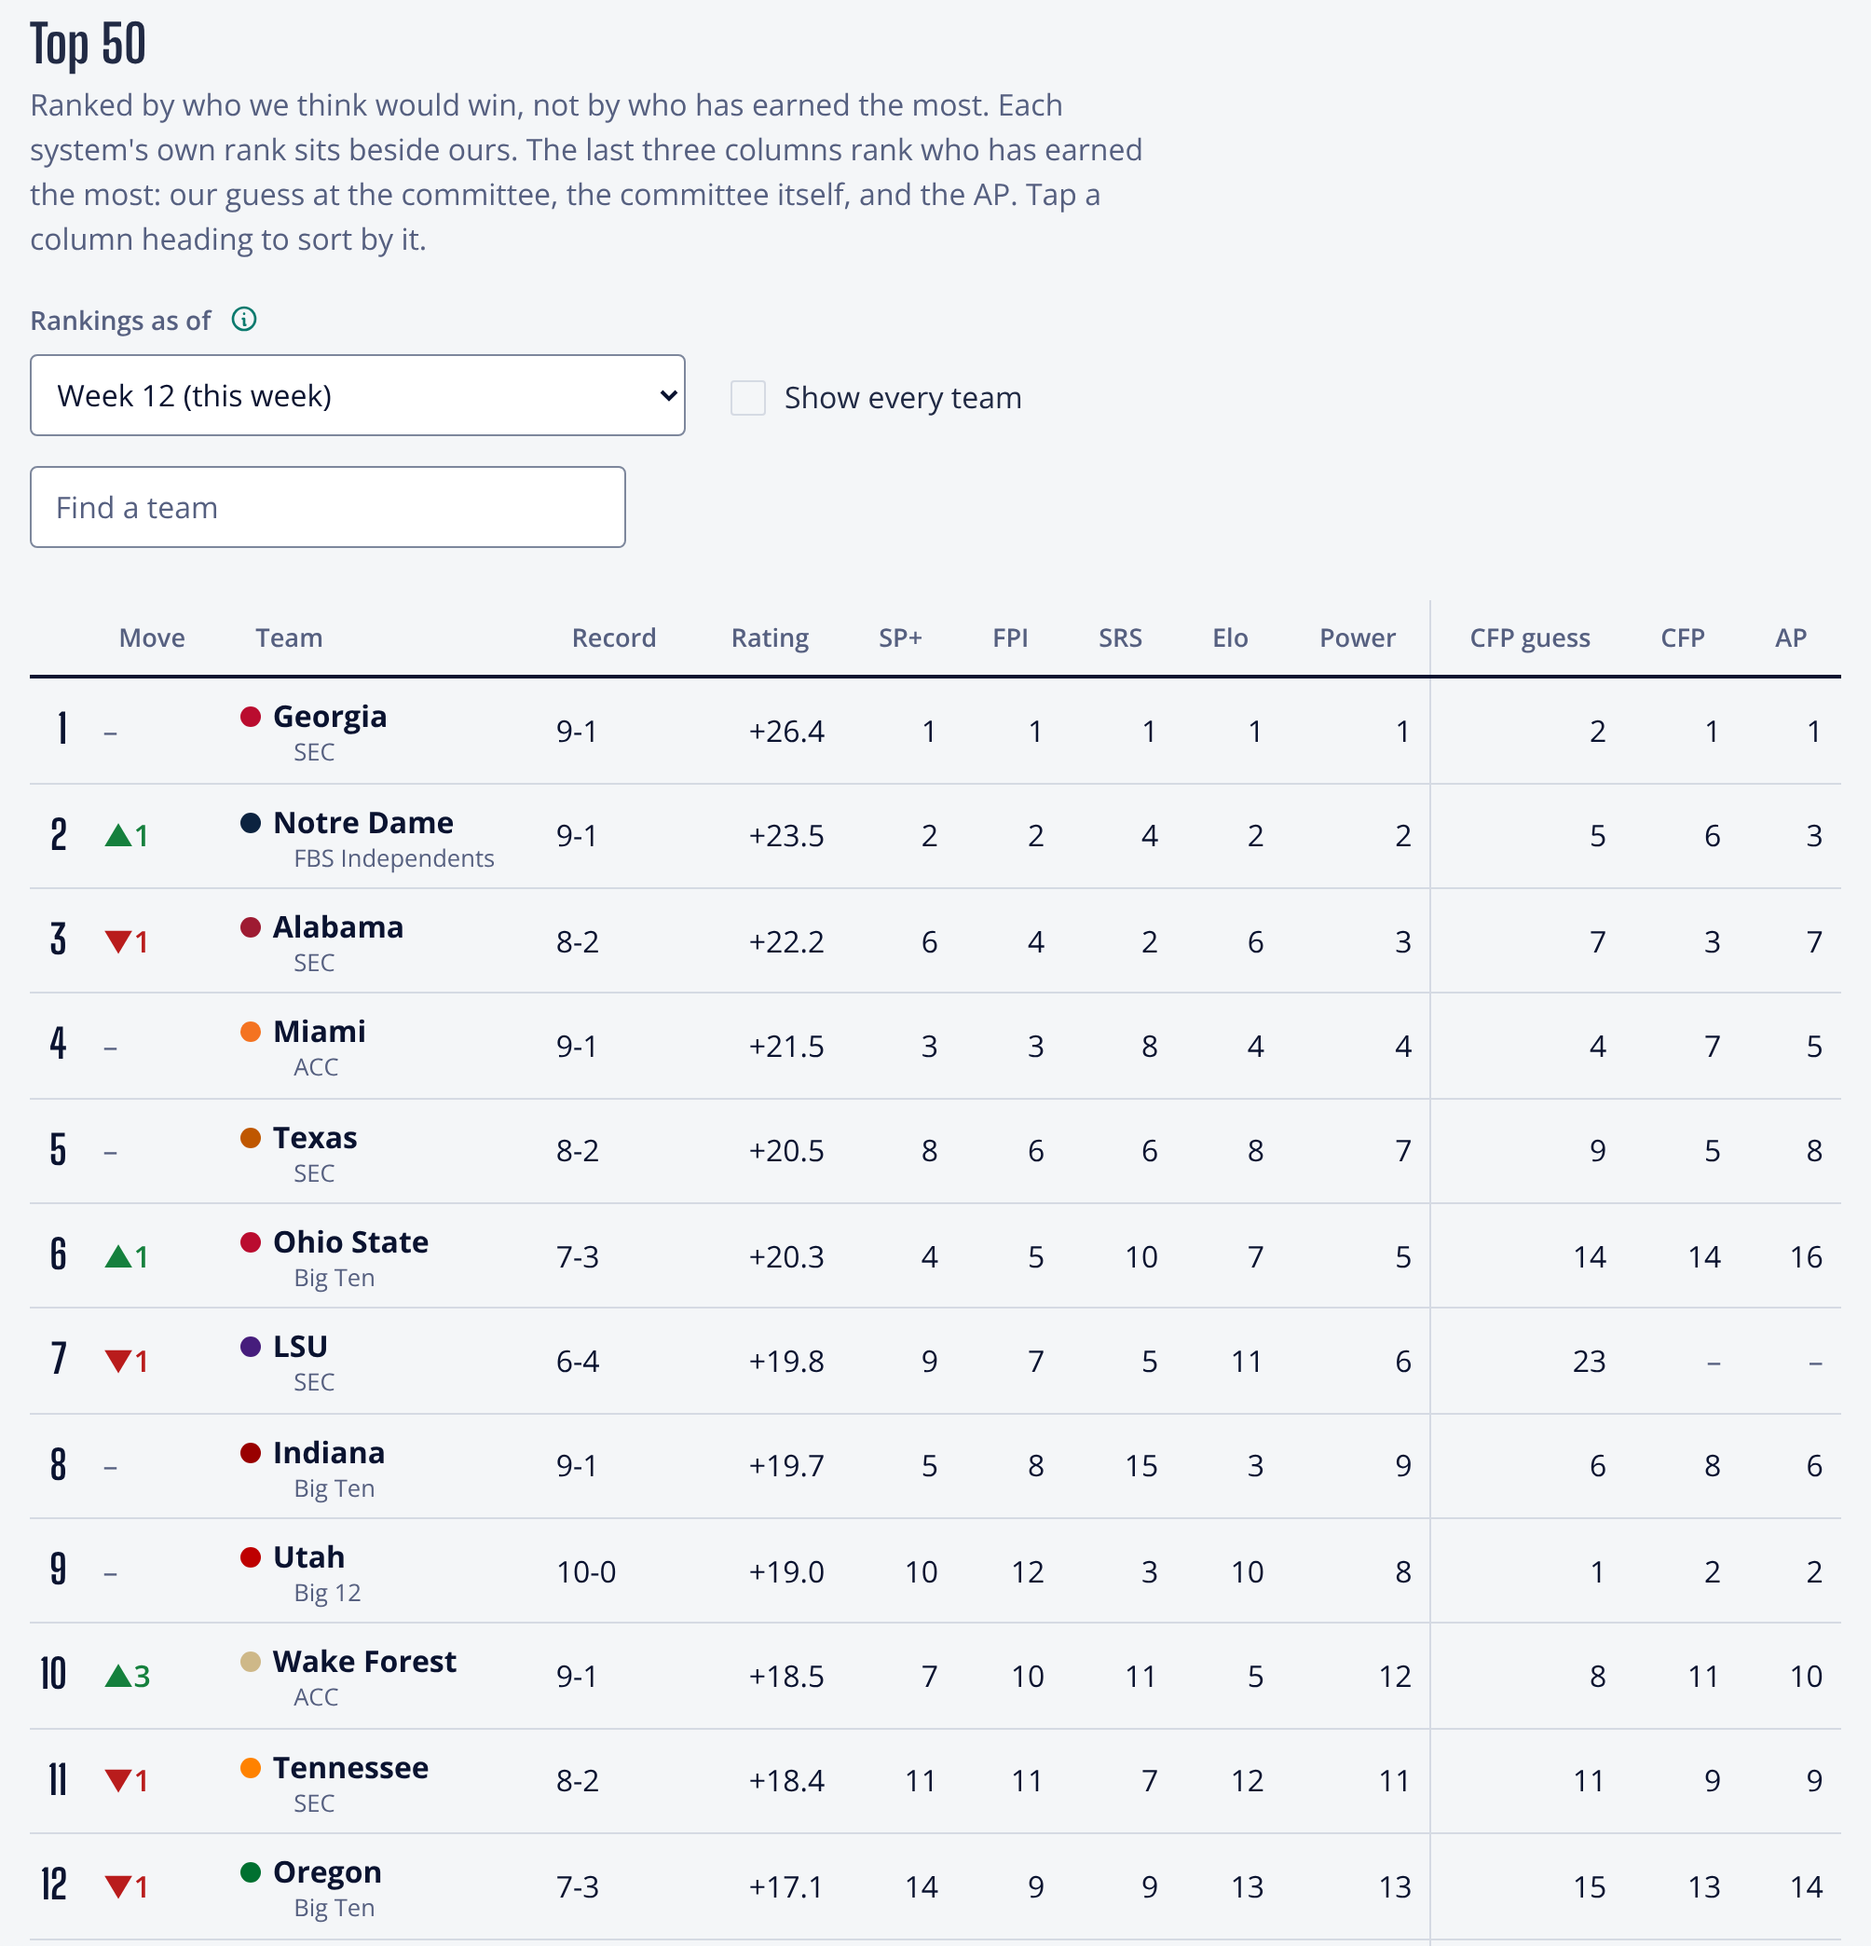
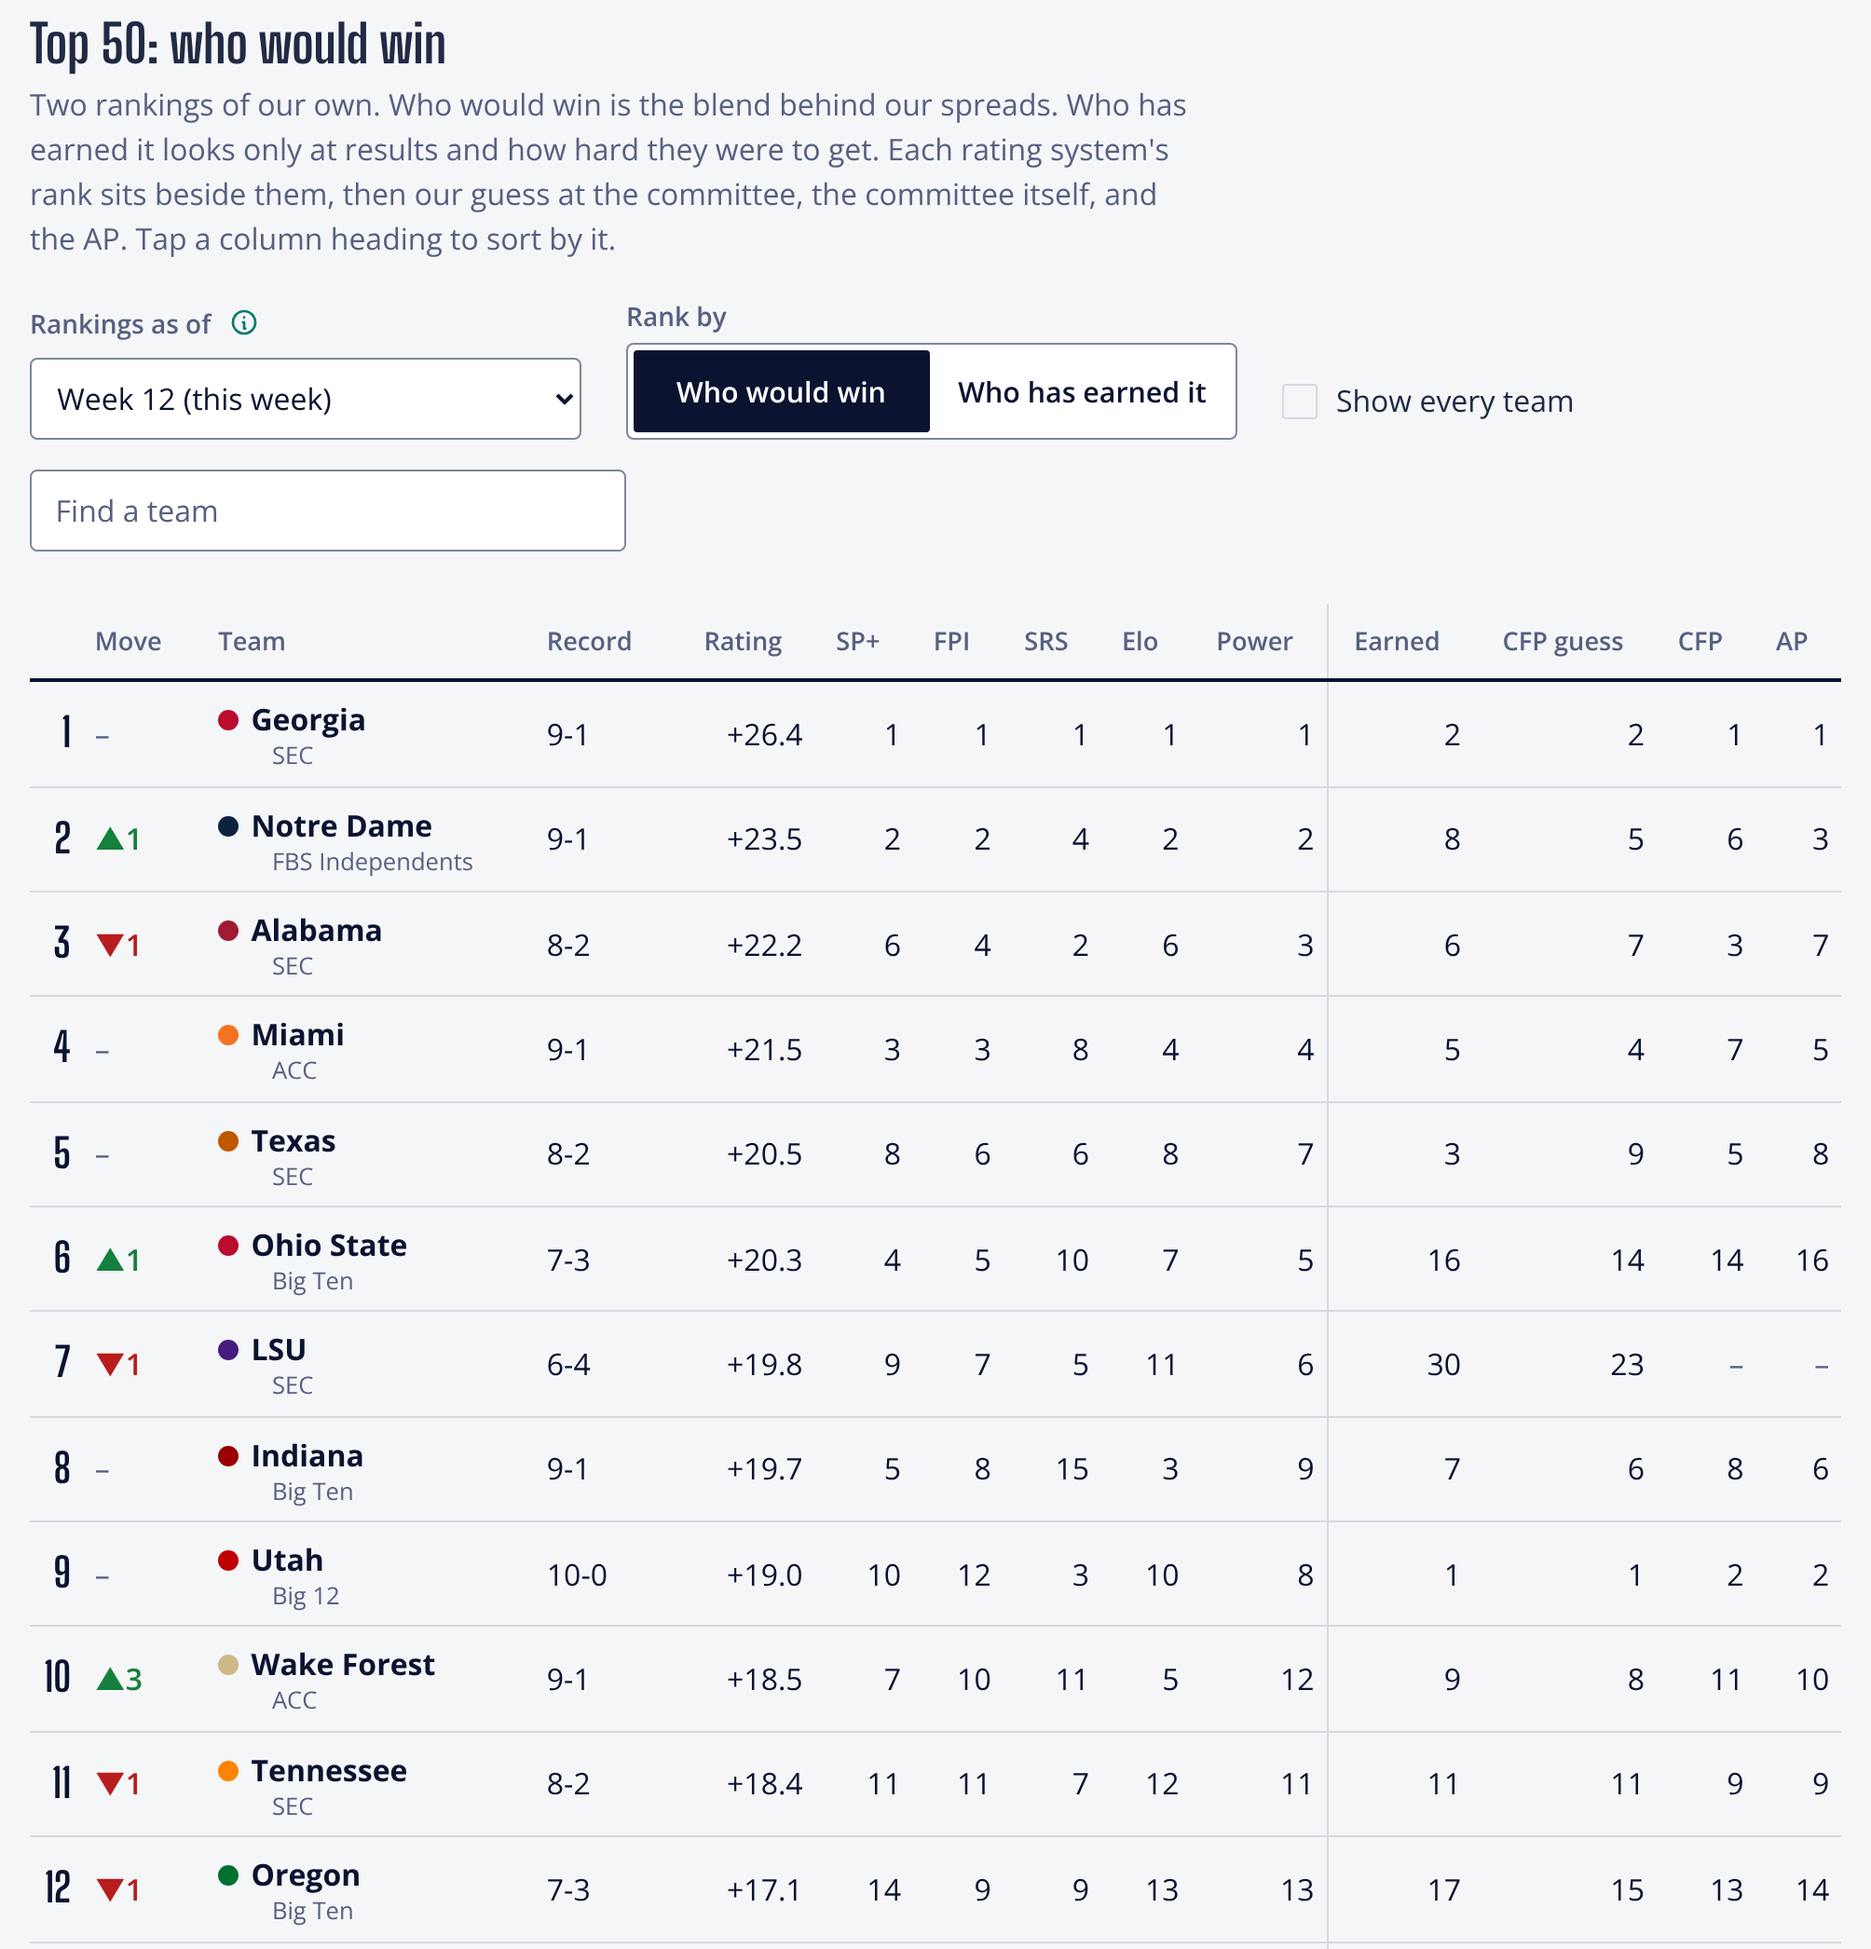
Who has earned it: a second ranking of our own, from results alone
The Rankings tab can now list its Top 50 two ways. "Who would win" is the
blend behind the spreads, as before. "Who has earned it" is every team in
order of record strength: wins above what a top-10 team would have against
the same schedule at the same sites. Margin of victory, conference and how
good a team looks do not count.

It is our own answer to who deserves what, kept apart from the CFP guess,
which predicts the committee and so includes its credit for strength and
its power-conference bonus. Each ranking shows the other beside it, and
the committee table shows all three.

Also keeps the picked segment dark when the pointer is over it.

Claude-Session: https://claude.ai/code/session_01PiGsyMhvagERk88pshKwS6

diff --git a/www/styles.css b/www/styles.css
@@ -243,6 +243,8 @@ code { color: var(--ink); background: #e6eaf0; padding: 0.1em 0.35em; border-rad
 }
 .segmented .radio-inline:hover > span { background: #eef1f5; }
 .segmented input:checked + span { background: var(--ink); color: #ffffff; }
+/* The picked segment stays dark under the pointer. */
+.segmented .radio-inline:hover > input:checked + span { background: var(--ink); }
 .segmented input:focus-visible + span { outline: 3px solid var(--focus); outline-offset: 2px; }
 .segmented input:focus-visible { outline: none !important; }
 @media (max-width: 575.98px) {
@@ -595,7 +597,7 @@ table.dataTable.rank-table {
   width: 100% !important; margin: 0 !important; border-collapse: collapse !important; font-size: 1rem;
 }
 table.dataTable.rank-table thead th {
-  color: var(--muted); font-size: 0.85rem; font-weight: 600;
+  color: var(--muted); font-size: 0.85rem; font-weight: 600; padding-inline: 0.4rem 1.1rem;
   border-bottom: 2px solid var(--ink) !important; white-space: nowrap; background: transparent;
 }
 table.dataTable.rank-table thead th.sorting_asc,
@@ -603,7 +605,7 @@ table.dataTable.rank-table thead th.sorting_desc { color: var(--ink); }
 table.dataTable.rank-table tbody tr { background-color: transparent; color: var(--ink); }
 table.dataTable.rank-table.no-footer { border-bottom: none; }
 table.dataTable.rank-table tbody td {
-  padding: 0.5rem 0.6rem; border-top: none; border-bottom: 1px solid var(--rule);
+  padding: 0.5rem 0.4rem; border-top: none; border-bottom: 1px solid var(--rule);
   vertical-align: middle; white-space: nowrap; font-variant-numeric: tabular-nums;
 }
 table.dataTable.rank-table tbody tr:hover td { background: rgba(94, 234, 212, 0.14); }
@@ -620,3 +622,6 @@ table.dataTable.rank-table th.rank-earned { border-left: 1px solid var(--rule); 
 .committee-grid { display: grid; gap: 2rem; grid-template-columns: minmax(0, 3fr) minmax(0, 2fr); align-items: start; }
 .committee-grid .slate-team { white-space: nowrap; }
 @media (max-width: 899.98px) { .committee-grid { grid-template-columns: 1fr; } }
+.rankings-controls .rank-by { margin-top: 0; flex: 1 1 18rem; max-width: 26rem; }
+.rankings-controls .rank-by .shiny-options-group { grid-template-columns: repeat(2, minmax(0, 1fr)); }
+.data-table tr.is-ours td { font-weight: 700; }

diff --git a/README.md b/README.md
@@ -39,18 +39,23 @@ market's.
 
 ![The This week tab: a table of games with our line, the market line, the difference and the home team's win chance](docs/img/this-week.png)
 
-The Rankings tab is our Top 50. Teams are ranked by the same blend that
-sets the spreads: how many points better than an average team each one is
-on a neutral field. So the gap between two teams on the list is our
-neutral-site line for them. Each system's own rank sits beside ours, with
-how far each team moved since last week.
+The Rankings tab is our Top 50, two ways. A switch picks which one the
+list is ranked by.
 
-The last three columns rank a different thing: who has earned the most.
-They are the playoff committee, the AP, and **our CFP guess**, a ranking we
-build from results alone that scores teams the way the committee has in
-past seasons. On seasons it was not fit on, it lands 2.7 places from the
-committee on average and has 11 of the committee's top 12. A second table
-lines the committee's 25 up against it and against our Top 50.
+- **Who would win.** The same blend that sets the spreads: how many points
+  better than an average team each one is on a neutral field. The gap
+  between two teams on the list is our neutral-site line for them.
+- **Who has earned it.** Results only. Each win counts for more the better
+  the opponent and the harder the site, measured against what a top-10
+  team would do with the same schedule. No credit for winning big and no
+  bonus for a conference.
+
+Each rating system's own rank sits beside them, with how far each team
+moved since last week. The last columns are the playoff committee, the AP,
+and **our CFP guess**: the same results scored the way the committee has
+scored teams in past seasons. On seasons it was not fit on, it lands 2.7
+places from the committee on average and has 11 of the committee's top 12.
+A second table lines the committee's 25 up against all three of ours.
 
 ![The Rankings tab: a Top 50 table with each team's record, rating, rank in all five systems, and its committee and AP rank](docs/img/rankings.png)
 
@@ -313,9 +318,13 @@ Rscript -e 'testthat::test_dir("tests/testthat")'
 - The betting market is the benchmark, and it's hard to beat. Expect this
   tool to be a little less accurate than the closing line. Its value is that
   it prices any matchup, including games that will never be played.
-- Our ranking is about who would win, not who has earned the most. A team
-  with a soft schedule and a perfect record will sit lower with us than
-  with the committee. That is on purpose.
+- "Who would win" and "who has earned it" are different questions, so the
+  two rankings disagree, sometimes by a lot. A team with a perfect record
+  and close wins ranks high on earned and lower on would-win. That is on
+  purpose.
+- The earned-it ranking judges a schedule by our Power rating of each
+  opponent, so it is only as good as that rating. It knows nothing about
+  head-to-head results or conference titles.
 - This is not betting advice.
 
 ## Credits

diff --git a/docs/how-it-works.md b/docs/how-it-works.md
@@ -343,13 +343,29 @@ question: who has earned the most so far. "Places off" measures how closely
 another ranking tracks the committee: across the committee's 25 teams, the
 average number of places between its rank and theirs.
 
+### Who has earned it
+
+Our second ranking answers the other question. It is every team in order
+of **record strength** and nothing else (`committee_style()` in
+`R/rankings.R` returns it as `earned`).
+
+For every game a team has played: did it win, minus how often a reference
+team, about the 10th best in the country, would have won that game at that
+site. Add those up. Beating a good team on the road adds a lot. Beating a
+weak one at home adds almost nothing. Losing to a weak one costs the most.
+
+What it leaves out is the point. Margin of victory does not count: a
+one-point win and a blowout are the same win. Conference does not count.
+How good the team looks does not count. Our Power rating is used for one
+thing only, which is judging how hard each opponent was.
+
 ### Our CFP guess
 
-A third ranking sits between the two: who has earned the most, judged the
-way the committee has judged teams before (`committee_style()` in
-`R/rankings.R`). It uses only games already played and our own Power
-rating, so it can be made in any week, including before the committee has
-released anything.
+A third ranking predicts the committee: the same resumes, scored the way
+the committee has scored teams before (`committee_style` from the same
+function). It uses only games already played and our own Power rating, so
+it can be made in any week, including before the committee has released
+anything.
 
 Each team gets a score from four things:
 
@@ -372,8 +388,10 @@ is 8.7 places off. The AP poll, which is also people ranking by results, is
 [research-log.md](research-log.md) has the details.
 
 It is a guess at the committee, not an opinion of ours about who deserves
-what. It also knows nothing about head-to-head results or conference
-titles, which the committee says it weighs.
+what. That opinion is the earned-it ranking above, which drops the credit
+for strength and the conference bonus. Neither one knows about
+head-to-head results or conference titles, which the committee says it
+weighs.
 
 ## The pipeline
 

diff --git a/docs/research-log.md b/docs/research-log.md
@@ -368,7 +368,15 @@ score. Each season was scored with weights fit on the other six.
 and anything said in the room. The AP poll is closer than any formula here
 because voters see those things too.
 
-**Decision.** Added to the Rankings tab as "Our CFP guess", next to the
-committee's and the AP's ranks. It is kept apart from the Top 50, which
-stays a who-would-win ranking. The weights live in `COMMITTEE_MODEL` in
+**Decision.** Two rankings came out of this.
+
+- "Our CFP guess": the four-input score, shown next to the committee's and
+  the AP's ranks. It predicts the committee, bonus and all.
+- "Who has earned it": record strength alone. It is our own answer to who
+  deserves what, so it deliberately leaves out the two things the fit says
+  the committee adds on top of results: credit for looking strong and the
+  power-conference bonus. It is 3.8 places from the committee on history,
+  and that gap is the point, not a flaw.
+
+Both are kept apart from the who-would-win ranking. The weights live in `COMMITTEE_MODEL` in
 `R/config.R` and should be refit with the script after each season.
